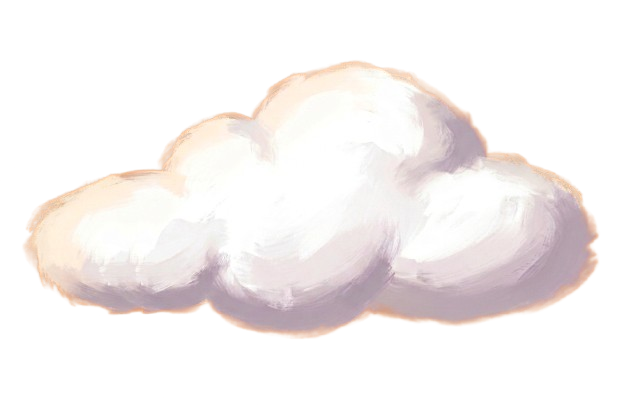
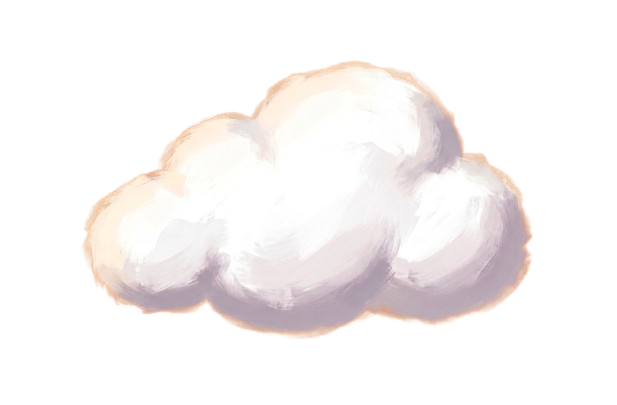
better clouds

Changed region(s): [[0.6467, 0.2074, 0.9854, 0.8], [0.0308, 0.4148, 0.2771, 0.8], [0.7083, 0.5926, 0.7391, 0.6222]]

diff --git a/web/components/sections/FaqSponsors.tsx b/web/components/sections/FaqSponsors.tsx
@@ -214,6 +214,39 @@ function SponsorsContent() {
             opacity: 0.95,
           }}
         />
+
+        {/* Decorative Floating Background Clouds */}
+        <div
+          className="absolute pointer-events-none hidden lg:block"
+          style={{
+            top: "15%",
+            left: "5%",
+            width: "350px",
+            height: "200px",
+            backgroundImage: "url(/sponsors/cloud.png)",
+            backgroundSize: "contain",
+            backgroundRepeat: "no-repeat",
+            opacity: 0.4,
+            zIndex: 5,
+            animation: "float-random 8s ease-in-out infinite",
+          }}
+        />
+        <div
+          className="absolute pointer-events-none hidden lg:block"
+          style={{
+            top: "25%",
+            right: "2%",
+            width: "450px",
+            height: "250px",
+            backgroundImage: "url(/sponsors/cloud.png)",
+            backgroundSize: "contain",
+            backgroundRepeat: "no-repeat",
+            opacity: 0.4,
+            zIndex: 5,
+            animation: "float-random 11s ease-in-out infinite",
+            animationDelay: "-2s",
+          }}
+        />
         <div className="container mx-auto px-4 py-8 sm:py-12 md:py-16 lg:py-20 relative z-10 pt-20 md:pt-32">
           {/* Header */}
           <div
@@ -572,7 +605,7 @@ function SponsorsContent() {
                       }}
                     />
                     {/* Content */}
-                    <div className="relative z-10 flex flex-row items-center text-left px-2 sm:px-4 gap-2 sm:gap-4 scale-90 sm:scale-95 2xl:scale-[0.8]">
+                    <div className="relative z-10 flex flex-row items-center text-left px-2 sm:px-4 gap-2 sm:gap-4 scale-85 sm:scale-85 2xl:scale-[0.7]">
                       <div className="w-[65px] h-[65px] sm:w-[85px] sm:h-[85px] 2xl:w-[75px] 2xl:h-[75px] rounded-full overflow-hidden shrink-0 border-[3px] sm:border-4 border-white shadow-md bg-gray-200">
                         {/* eslint-disable-next-line @next/next/no-img-element */}
                         <img
